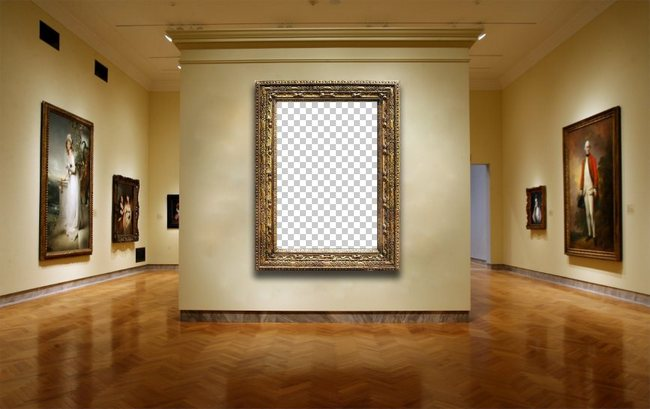
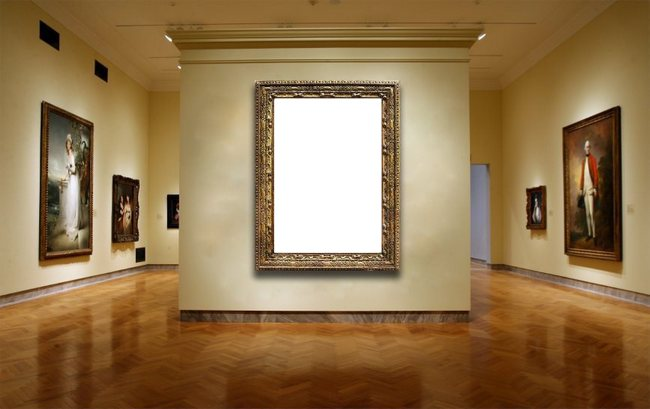
Edit background image and adjust photo styles

Changed region(s): [[0.4, 0.2347, 0.5846, 0.6161]]

diff --git a/src/Photo.svelte b/src/Photo.svelte
@@ -1,24 +1,17 @@
 <script>
   export let photoUrl;
   let src = photoUrl;
-
 </script>
+
 
   <img {src} alt='gallery-collection'/>
 
 
-
 <style>
-  div {
-    width: 100vw;
-    height: 100vh;
-    text-align: center;
-  }
-
   img {
-    width: 220px;
-    height: 330px;
-    margin-top: 47px;
+    width: 229px;
+    height: 331px;
+    margin-top: 50px;
     margin-left: 10px;
   }
 </style>

diff --git a/src/Gallery.svelte b/src/Gallery.svelte
@@ -1,7 +1,6 @@
 <script>
   import Photo from './Photo.svelte';
   export let records;
-  console.log(records)
 </script>
 
 <main>
